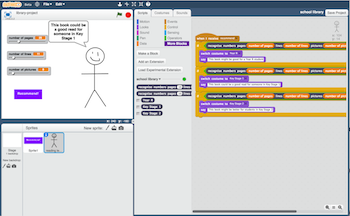
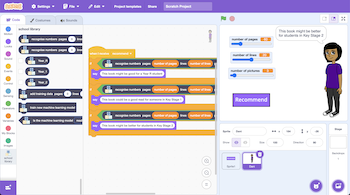
fix: update school library project to use Scratch 3

diff --git a/mlforkids-api/public/index.html b/mlforkids-api/public/index.html
@@ -143,12 +143,12 @@
         <script src="https://browser.sentry-cdn.com/10.7.0/bundle.min.js" crossorigin="anonymous"></script>
         <%= AFTER_USE_IN_PROD_ONLY %>
 
-        <script type="text/javascript" src="/static/app.js?v=262"></script>
-        <script type="text/javascript" src="/static/mlapp.min.js?v=262"></script>
+        <script type="text/javascript" src="/static/app.js?v=263"></script>
+        <script type="text/javascript" src="/static/mlapp.min.js?v=263"></script>
 
-        <link href="/static/style.min.css?v=262" rel="stylesheet" />
+        <link href="/static/style.min.css?v=263" rel="stylesheet" />
 
-        <link href="/static/bower_components/angular-material/angular-material.theme.min.css?v=262" rel="stylesheet" media="print" onload="this.media='all'; this.onload=null;">
+        <link href="/static/bower_components/angular-material/angular-material.theme.min.css?v=263" rel="stylesheet" media="print" onload="this.media='all'; this.onload=null;">
 
         <script async defer src="https://scripts.withcabin.com/hello.js"></script>
     </body>

diff --git a/mlforkids-api/public/components/worksheets/worksheets.controller.js b/mlforkids-api/public/components/worksheets/worksheets.controller.js
@@ -1196,11 +1196,11 @@
                     title : translations['WORKSHEETS.JOURNEYTOSCHOOL.TITLE'],
                     summary : translations['WORKSHEETS.JOURNEYTOSCHOOL.SUMMARY'],
                     description : translations['WORKSHEETS.JOURNEYTOSCHOOL.DESCRIPTION'],
-                    difficulty : 1,
+                    difficulty : 2,
                     type : 'numbers',
-                    maketypes : [ 'scratch2' ],
+                    maketypes : [ 'scratch3' ],
                     image : 'static/images/project-journeytoschool.png',
-                    tags : [ 'predictive model', 'testing and accuracy', 'supervised learning' ],
+                    tags : [ 'predictive model', 'supervised learning' ],
                     teachersnotes : translations['WORKSHEETS.JOURNEYTOSCHOOL.TEACHERSNOTES_URL'],
                     downloads : [
                         {

diff --git a/mlforkids-api/public/app.js b/mlforkids-api/public/app.js
@@ -327,7 +327,7 @@
             .useSanitizeValueStrategy('sanitizeParameters')
             .useStaticFilesLoader({
                 prefix: 'static/languages/',
-                suffix: '.json?v=262'
+                suffix: '.json?v=263'
             })
             .determinePreferredLanguage(function () {
                 var lang = navigator.userLanguage || navigator.language;

diff --git a/mlforkids-api/public/components/logger/logger.service.js b/mlforkids-api/public/components/logger/logger.service.js
@@ -45,7 +45,7 @@
             logs.push(JSON.stringify(urlParms));
             logs.push('\n[ml4klog] browser ');
             logs.push(navigator.userAgent);
-            logs.push('\n[ml4klog] version v=262');
+            logs.push('\n[ml4klog] version v=263');
 
             downloadService.downloadFile(logs, 'text/plain', 'mlforkids.log');
         }

diff --git a/mlforkids-api/public/prod-sentry.js b/mlforkids-api/public/prod-sentry.js
@@ -1,7 +1,7 @@
 if (Sentry) {
     Sentry.init({
         dsn: 'https://b4bbe1a8fbce473cb9eb089652848a1e@sentry.io/202347',
-        release: '262',
+        release: '263',
         // https://docs.sentry.io/platforms/javascript/configuration/filtering/#decluttering-sentry
         ignoreErrors: [
             "top.GLOBALS",
